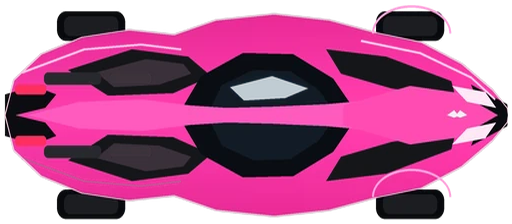
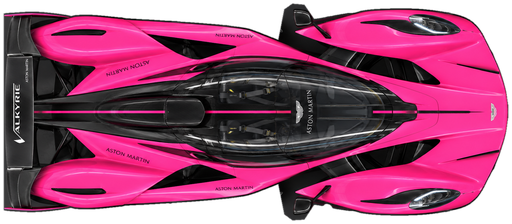
Update Mary model and add QUEEN prefix

diff --git a/public/js/freeroam.js b/public/js/freeroam.js
@@ -506,8 +506,11 @@
     setBanner.t=setTimeout(()=>b.classList.add('hidden'),ms);
   }
 
+  const isQueenName=name=>String(name||'').trim().replace(/^@/,'').toLowerCase()==='mary';
+
   function appendPlayerName(el,name,owner,level=null){
     if(owner){const badge=document.createElement('span');badge.className='free-owner-badge';badge.textContent='OWNER';el.append(badge);}
+    else if(isQueenName(name)){const badge=document.createElement('span');badge.className='free-queen-badge';badge.textContent='QUEEN';el.append(badge);}
     el.append(document.createTextNode(name||'RACER'));
     if(level!==null&&Number.isFinite(Number(level))){const tag=document.createElement('span');tag.className='free-level-tag';tag.textContent=`[${Math.max(0,Math.min(100,Math.floor(Number(level)||0)))}]`;el.append(document.createTextNode(' '),tag);}
   }
@@ -606,6 +609,7 @@
   }
 
   function drawVisualCar(c,visual,x,y,a,name,me,fallbackColor,owner=false,level=0){
+    const queen=!owner&&isQueenName(name);
     c.save();
     if(visual){
       visual.x=x;visual.y=y;visual.angle=a;
@@ -620,14 +624,18 @@
     c.restore();
     c.save();
     c.font='900 14px system-ui';
-    const label=`${name||'RACER'} [${Math.max(0,Math.min(100,Math.floor(Number(level)||0)))}]`,nameWidth=c.measureText(label).width,badgeWidth=owner?65:0,total=nameWidth+badgeWidth+20,left=x-total/2;
+    const label=`${name||'RACER'} [${Math.max(0,Math.min(100,Math.floor(Number(level)||0)))}]`,nameWidth=c.measureText(label).width,badgeWidth=(owner||queen)?65:0,total=nameWidth+badgeWidth+20,left=x-total/2;
     c.fillStyle='#101a1eef';roundRect(c,left,y-52,total,26,8,true,false);
     if(owner){
       c.shadowColor='#ff304f';c.shadowBlur=9;c.fillStyle='#b51232';roundRect(c,left+4,y-48,57,18,5,true,false);c.shadowBlur=0;
       c.strokeStyle='#ff687c';c.lineWidth=1;roundRect(c,left+4,y-48,57,18,5,false,true);
       c.fillStyle='#fff0f2';c.font='900 10px system-ui';c.textAlign='center';c.fillText('OWNER',left+32.5,y-35);
+    }else if(queen){
+      c.shadowColor='#ff4fbd';c.shadowBlur=11;c.fillStyle='#b51678';roundRect(c,left+4,y-48,57,18,5,true,false);c.shadowBlur=0;
+      c.strokeStyle='#ff86d2';c.lineWidth=1;roundRect(c,left+4,y-48,57,18,5,false,true);
+      c.fillStyle='#fff0fa';c.font='900 10px system-ui';c.textAlign='center';c.fillText('QUEEN',left+32.5,y-35);
     }
-    c.font='900 14px system-ui';c.textAlign='left';c.fillStyle=owner?'#ffd6dd':me?'#dfffcb':'#dce9e5';
+    c.font='900 14px system-ui';c.textAlign='left';c.fillStyle=owner?'#ffd6dd':queen?'#ffd9f1':me?'#dfffcb':'#dce9e5';
     c.fillText(label,left+10+badgeWidth,y-34);
     c.restore();
   }

diff --git a/public/css/style.css b/public/css/style.css
@@ -2832,11 +2832,12 @@ button[data-category="lux"] .category-chip-icon::before { inset:0;clip-path:poly
 
 /* Server-assigned owner identity in Free Roam chat. */
 .free-owner-badge{display:inline-block;vertical-align:middle;margin-right:6px;padding:3px 6px;border:1px solid #ff7287;border-radius:5px;background:linear-gradient(135deg,#e12948,#970e2b);box-shadow:0 0 10px #ff244b44,inset 0 1px 0 #ffffff24;color:#fff1f4;font:900 9px/1.15 system-ui;letter-spacing:.8px;white-space:nowrap;text-shadow:0 1px 2px #67061e}
+.free-queen-badge{display:inline-block;vertical-align:middle;margin-right:6px;padding:3px 6px;border:1px solid #ff89d6;border-radius:5px;background:linear-gradient(135deg,#f438ac,#a90e70);box-shadow:0 0 12px #ff42b766,inset 0 1px 0 #ffffff33;color:#fff3fb;font:900 9px/1.15 system-ui;letter-spacing:.8px;white-space:nowrap;text-shadow:0 1px 2px #6e0648}
 .free-chat-line>strong,.free-chat-preview-line>b{overflow-wrap:anywhere}
 
 .free-chat-line.has-owner,.free-chat-preview-line.has-owner{grid-template-columns:minmax(0,126px) minmax(0,1fr)}
 .free-chat-line.has-owner>strong,.free-chat-preview-line.has-owner>b{max-width:none;min-width:0;white-space:normal;overflow:visible;color:#ffd0da}
-.free-chat-line .free-owner-badge,.free-chat-preview-line .free-owner-badge{color:#fff1f4;word-break:normal;white-space:nowrap}
+.free-chat-line .free-owner-badge,.free-chat-preview-line .free-owner-badge{color:#fff1f4;word-break:normal;white-space:nowrap}.free-chat-line .free-queen-badge,.free-chat-preview-line .free-queen-badge{color:#fff3fb;word-break:normal;white-space:nowrap}
 
 
 /* Free Roam Drag Sync v2 — authoritative live leader + photo-finish HUD */

diff --git a/MARY_QUEEN_VISUAL_UPDATE.md b/MARY_QUEEN_VISUAL_UPDATE.md
@@ -1,0 +1,6 @@
+# Mary / QUEEN visual update
+
+- Replaced only the visual sprite and thumbnail for car `aston-martin-valkyrie-mary` (`Mary`).
+- Kept the car ID, name, price, category, performance, upgrades, collision geometry and all gameplay values unchanged.
+- New sprite uses the approved bright-pink Valkyrie top view, oriented nose-right for the game and fitted to the existing 512x224 / 256x112 sprite envelopes.
+- Added a pink `QUEEN` prefix for the exact free-roam account name `@mary`, matching the OWNER badge placement in chat, chat preview and the world nameplate.
